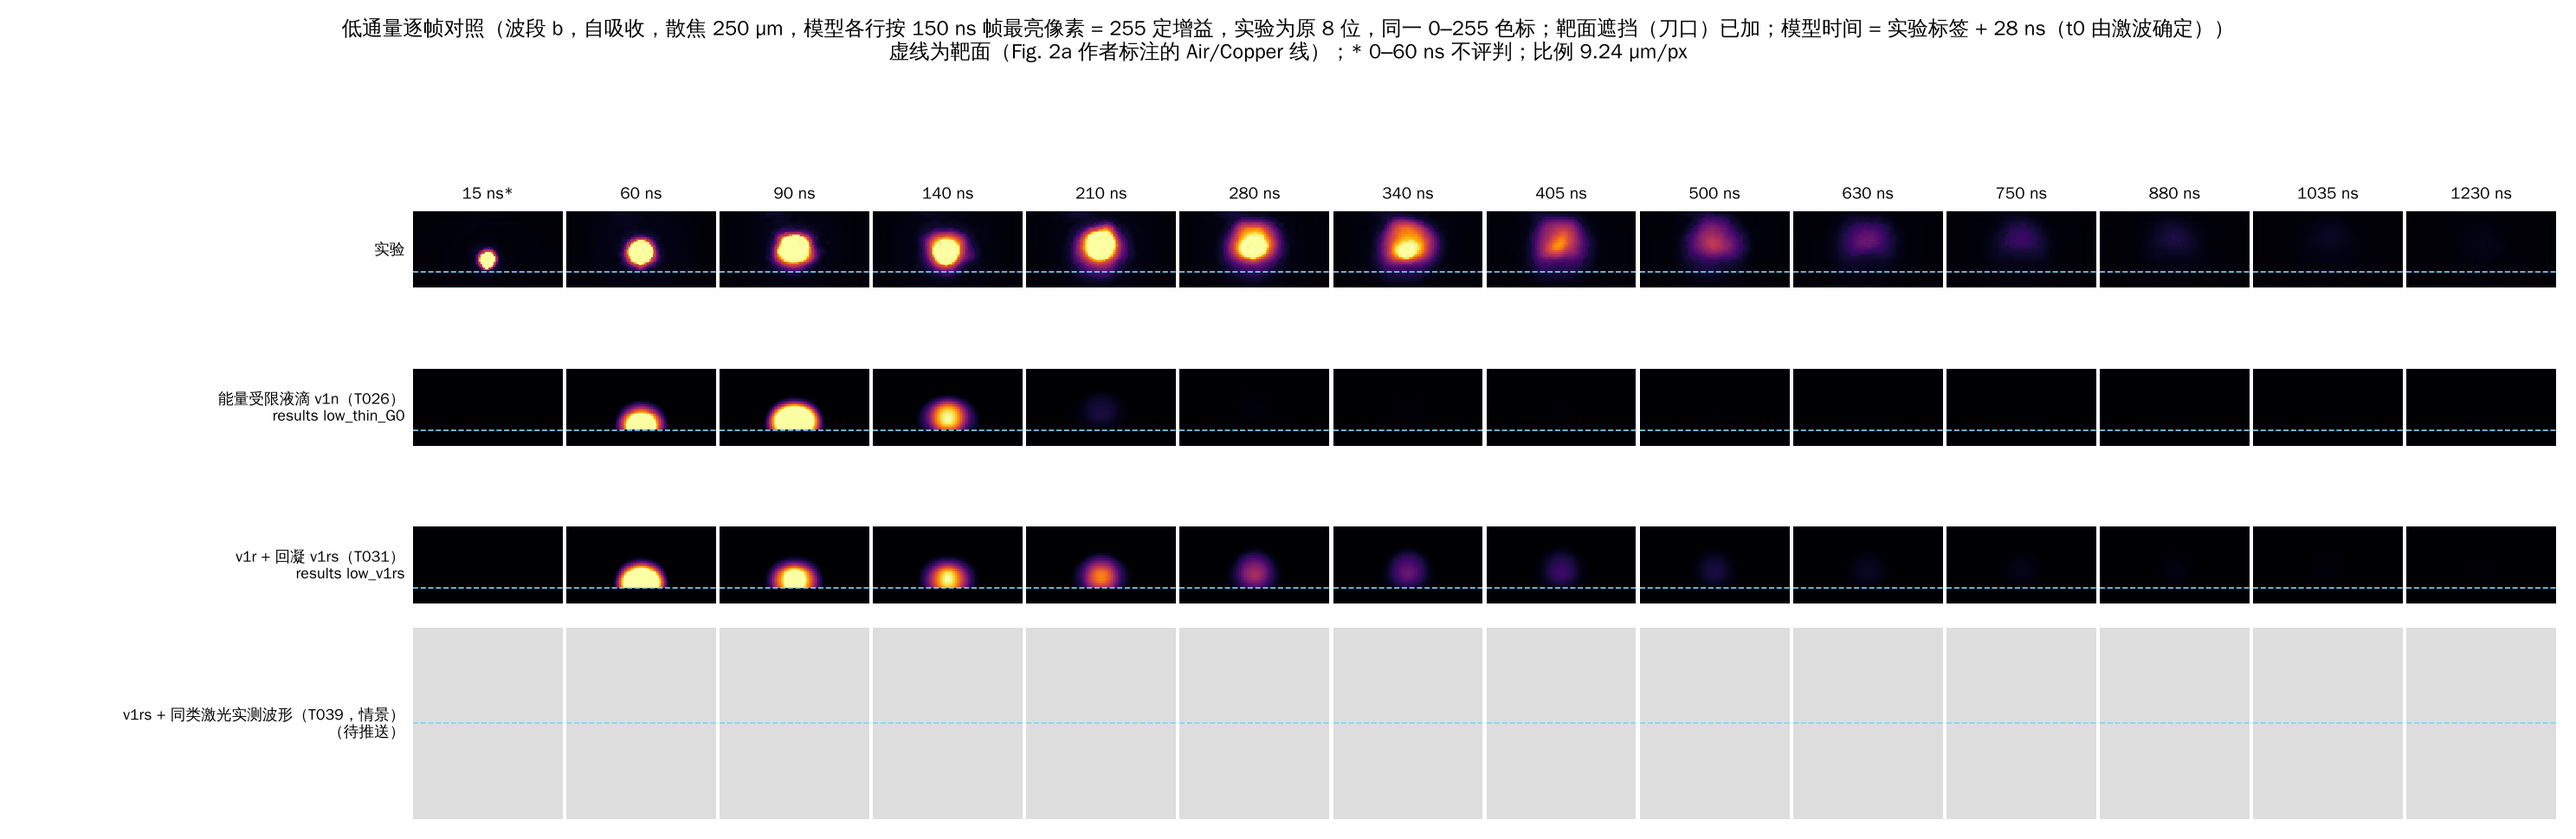
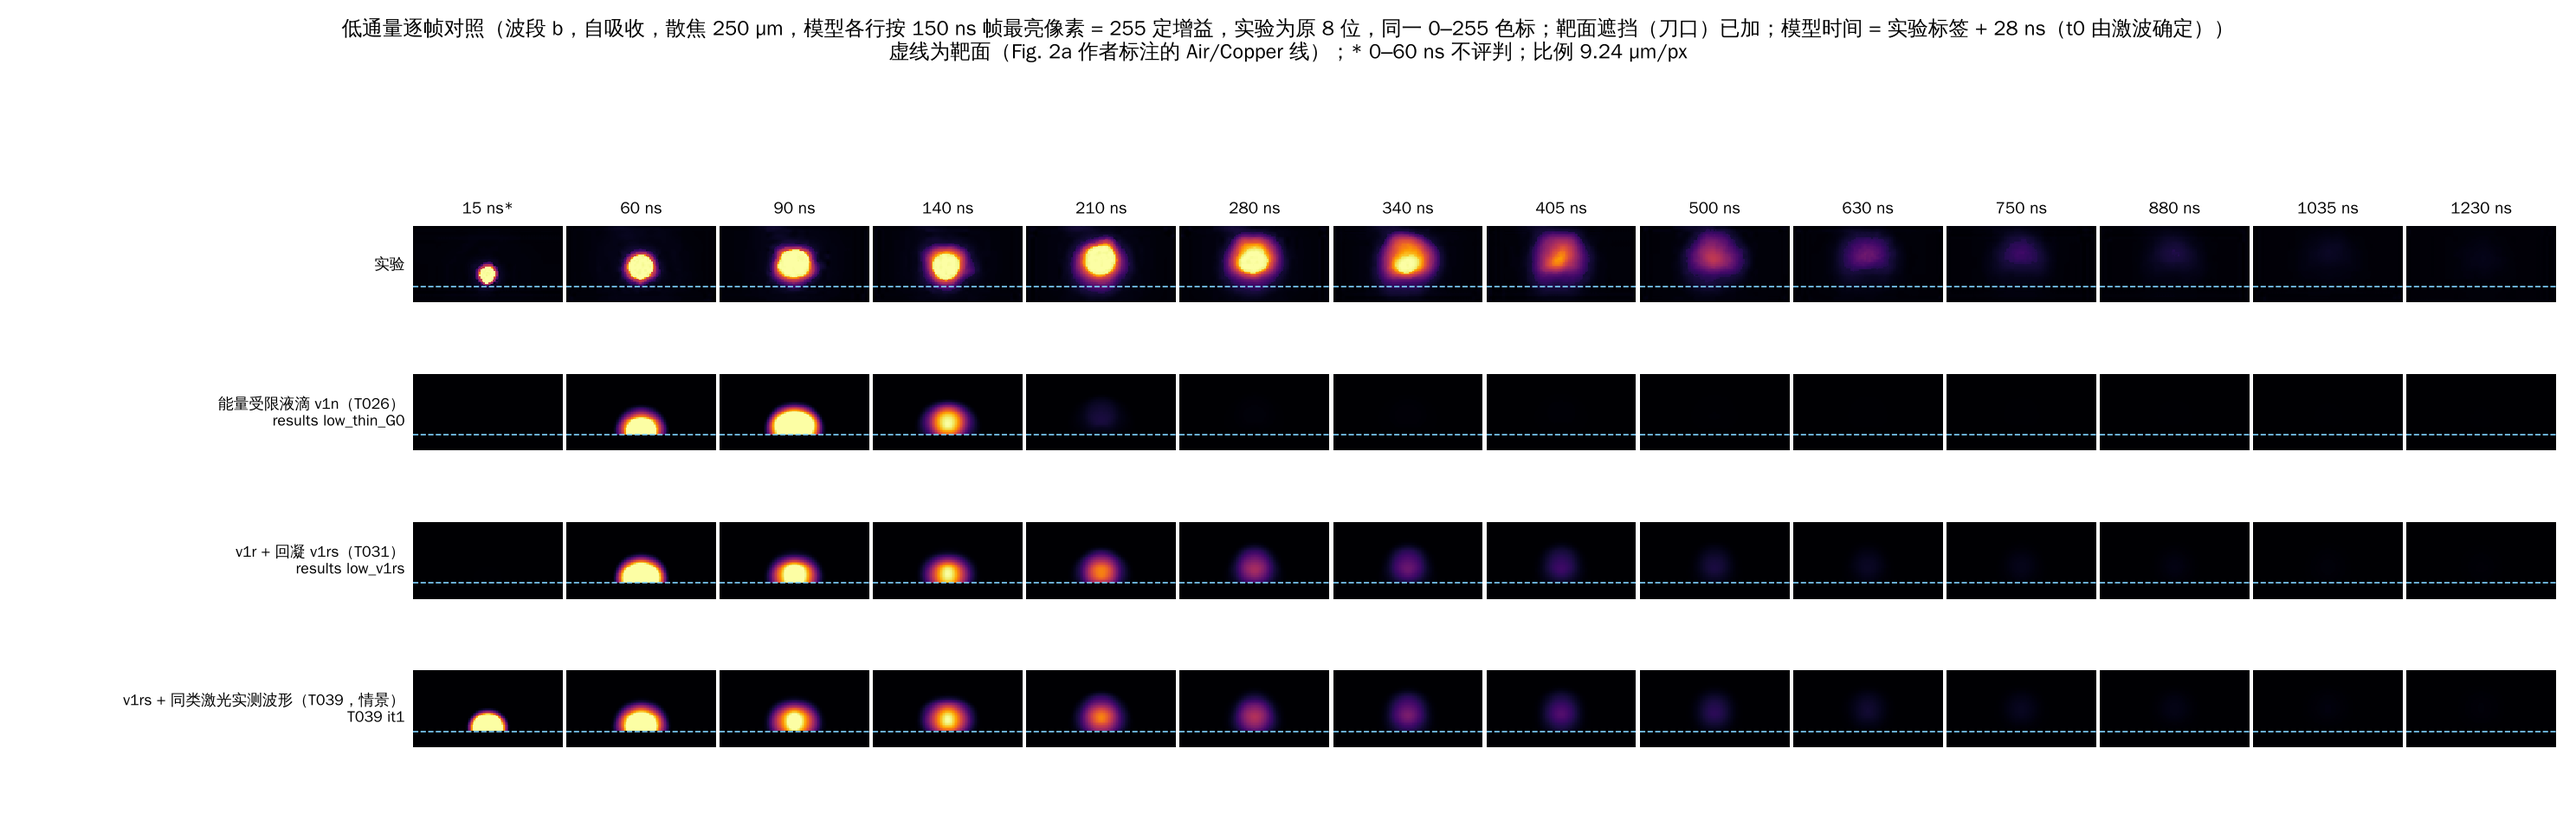
S4 defocus calibration: high-fluence frames/curves at declared 500 um; saturation note
Claude-Session: https://claude.ai/code/session_01FS7WDGPKzwdDyXZyPwrs24

diff --git a/scripts/plot_full_comparison.py b/scripts/plot_full_comparison.py
@@ -129,12 +129,21 @@ def occlude(img, srow):
 
 OCCLUDE = False
 GAIN_MODE = "tref"
+DEFOCUS = {"high": "baseline", "low": "baseline"}   # --defocus-high high: S4 instrument calibration (PREREG 2026-11-26)
+
+
+def _ser(path):
+    return "high" if "high" in str(path).replace("\\", "/").split("results/")[-1] else "low"
+
+
+def dfoc_of(path):
+    return P.get("defocus_um_scenarios")[DEFOCUS[_ser(path)]]
 
 
 def model_frames(path, mode, srow, L_ref):
     d = np.load(path / IMG / f"frames_b_{mode}.npz")
     um = float(d["um_per_px"])
-    dfoc = P.get("defocus_um_scenarios")["baseline"]
+    dfoc = dfoc_of(path)
     fr = {int(t): (occlude(camera.blur(place(x, srow), um, dfoc), srow) if OCCLUDE else camera.blur(place(x, srow), um, dfoc)) for t, x in zip(d["t_ns"], d["radiance"]) if np.isfinite(x).all()}
     if not fr:
         return {}, 0.0
@@ -181,11 +190,11 @@ def frames_figure(series, mode, srow):
             if c == 0:
                 a.set_ylabel(lab, fontsize=7.5, rotation=0, ha="right", va="center")
     src = "Fig. 2a 作者标注的 Air/Copper 线" if series == "low" else "由低通量标注线换算（仅供参考）"
-    fig.suptitle(f"{'高' if series == 'high' else '低'}通量逐帧对照（波段 b，{'自吸收' if mode == 'sa' else '光学薄'}，散焦 250 µm，"
+    fig.suptitle(f"{'高' if series == 'high' else '低'}通量逐帧对照（波段 b，{'自吸收' if mode == 'sa' else '光学薄'}，散焦 {P.get('defocus_um_scenarios')[DEFOCUS[series]]:g} µm，"
                  f"{'模型各行按自身最亮帧定增益（不饱和），实验为原 8 位' if GAIN_MODE == 'peak' else ('模型各行按 150 ns 帧最亮像素 = 255 定增益，实验为原 8 位' if GAIN_MODE == 'peak150' else '各行在 300 ns 单独定增益')}，同一 0–255 色标{'；靶面遮挡（刀口）已加' if OCCLUDE else ''}{'；模型时间 = 实验标签 + 28 ns（t0 由激波确定）' if IMG != 'image_v2' else ''}）\n虚线为靶面（{src}）；* 0–60 ns 不评判；比例 {um:.2f} µm/px",
                  fontsize=10)
     fig.tight_layout(rect=(0.04, 0, 1, 0.92), h_pad=0.3, w_pad=0.2)
-    out = ROOT / f"results/figures/full_frames_{series}{'_occluded' if OCCLUDE else ''}{'_unsat' if GAIN_MODE == 'peak' else ''}{'_g150' if GAIN_MODE == 'peak150' else ''}{'_' + IMG.split('_')[-1] if IMG != 'image_v2' else ''}.png"
+    out = ROOT / f"results/figures/full_frames_{series}{'_occluded' if OCCLUDE else ''}{'_unsat' if GAIN_MODE == 'peak' else ''}{'_g150' if GAIN_MODE == 'peak150' else ''}{'_' + IMG.split('_')[-1] if IMG != 'image_v2' else ''}{'_d' + str(int(P.get('defocus_um_scenarios')[DEFOCUS[series]])) if DEFOCUS[series] != 'baseline' else ''}.png"
     fig.savefig(out, dpi=170)
     plt.close(fig)
     return out
@@ -236,7 +245,7 @@ def geometry_figure(series, mode, srow):
 def lift_curve(path, mode):
     d = np.load(path / IMG / f"frames_b_{mode}.npz")
     um = float(d["um_per_px"])
-    dfoc = P.get("defocus_um_scenarios")["baseline"]
+    dfoc = dfoc_of(path)
     t_, l_ = [], []
     for t, x in zip(d["t_ns"], d["radiance"]):
         if np.isfinite(x).all() and x.max() > 0:
@@ -259,7 +268,7 @@ def curves_figure(mode, srows):
             if p is None:
                 continue
             for md, ls in ((mode, "-"), ("thin" if mode == "sa" else "sa", ":")):
-                f = p / IMG / f"metrics_b_{md}_baseline.csv"
+                f = p / IMG / f"metrics_b_{md}_{DEFOCUS[series]}.csv"
                 if f.exists():
                     m = pd.read_csv(f)
                     a.semilogy(m.t_ns, m.L_radiance / np.interp(T_REF, m.t_ns, m.L_radiance), ls, color=COL[key], lw=1.8 if ls == "-" else 1.1,
@@ -292,7 +301,7 @@ def curves_figure(mode, srows):
         for key, p in MEMBERS[series].items():
             if p is None:
                 continue
-            f = p / IMG / f"metrics_b_{mode}_baseline.csv"
+            f = p / IMG / f"metrics_b_{mode}_{DEFOCUS[series]}.csv"
             if f.exists():
                 m = pd.read_csv(f)
                 a.plot(m.t_ns, np.sqrt(m.sigma_x2_um2), "-", color=COL[key], lw=1.8, label=f"{LAB[key]} σx")
@@ -302,7 +311,7 @@ def curves_figure(mode, srows):
         a.legend(frameon=False, fontsize=6.5, ncol=2)
     fig.suptitle(f"全过程仿真与实验对照：亮度衰减、发光峰高度、发光区尺寸（波段 b，{'自吸收' if mode == 'sa' else '光学薄'}；实线为主模式）", fontsize=11)
     fig.tight_layout(rect=(0, 0, 1, 0.96))
-    out = ROOT / f"results/figures/full_curves{'_' + IMG.split('_')[-1] if IMG != 'image_v2' else ''}.png"
+    out = ROOT / f"results/figures/full_curves{'_' + IMG.split('_')[-1] if IMG != 'image_v2' else ''}{'_dhigh' if DEFOCUS['high'] != 'baseline' else ''}.png"
     fig.savefig(out, dpi=160)
     plt.close(fig)
     return out
@@ -341,10 +350,12 @@ def main(argv=None):
     ap.add_argument("--mode", default="sa", choices=["sa", "thin"])
     ap.add_argument("--gain", default="tref", choices=["tref", "peak", "peak150"], help="display option: gain at t_ref (default) or no-saturation gain per row")
     ap.add_argument("--occlude", action="store_true", help="display option: knife-edge occlusion of the image below the face")
+    ap.add_argument("--defocus-high", default="baseline", choices=["baseline", "high", "low"], help="defocus scenario for the high series")
     ap.add_argument("--image-dir", default="image_v2", help="imaging subfolder, e.g. image_v2_t28 (t0-aligned)")
     a = ap.parse_args(argv)
     global OCCLUDE, GAIN_MODE, IMG, MEMBERS
     IMG = a.image_dir
+    DEFOCUS["high"] = a.defocus_high
     if IMG != "image_v2":
         MEMBERS = members()
     OCCLUDE = a.occlude

diff --git a/docs/PREREG_v0.md b/docs/PREREG_v0.md
@@ -258,3 +258,10 @@ As specified, the extension injects up to 21× the choked Knight-layer flux ρ_v
   - the shock against Fig. 3d (Δ = 28 ns, and Δ refitted for this scenario reported separately);
   - σx, σz/σx and the L(t)/L(150) trend.
 - **Expected:** ignition about 10 ns earlier. The low-fluence coupling deficit (about 3×) is not expected to close fully.
+
+## S4 defocus calibration (high fluence), recorded 2026-11-26 ~10:30 (UTC+8)
+- **What:** the imaging defocus D is an instrument property, not a model parameter. It is fixed from the earliest high-fluence frames (0 / 20 / 30 ns, σx = 108 / 113 / 117 µm), where the emitting region is far smaller than the blur disc and the frame is PSF-dominated.
+- **Method:** re-blur the unblurred model frames for D = 250…600 µm and match σx of those three frames only. Result: D ≈ 475–500 µm for both T031 (v1rs, Δ = 28 ns) and T039 (waveform). That equals the declared `high` scenario (500 µm), so the declared value is used; no new value is introduced.
+- **Low fluence:** its 10 ns frame (σ = 33 µm) is consistent with the declared `low` scenario (0 µm). The two series use different settings, consistent with the two series being recorded separately.
+- **Transparency:** the d500 images and later-time metrics of T031/T039 had already been computed as part of the declared scenario bracket before this calibration. The calibration uses only the three earliest frames, and the later-time agreement is not used to choose D.
+- **Experimental saturation:** high-fluence frames at 50–160 ns are saturated (n_sat 17–139, peak 255); 180 ns onward is unsaturated. The experimental L at 50–160 ns is therefore a lower bound, and brightness-trend comparisons are normalised at 300 ns (L(t)/L(300)), not at 150 ns.

diff --git a/docs/DECISIONS.md b/docs/DECISIONS.md
@@ -110,3 +110,5 @@ PREREG v1p (b), matched high it0 against T026 it0: σ_z/σ_x at 300 ns moves by 
 ## 2026-11-26 10:50 — Focus: high fluence (user)
 - User: the targets are the high-fluence brightness trend and the plume size; low fluence is reference only. Low-fluence work (T038) finishes but gets no new cards. New physics is judged on the high-fluence metrics: L(t)/L(150) against the experiment, and σx, σz, zc against the experiment.
 - First step is a diagnostic, T041: the cloud smoke run puts 99.8% of the laser absorption in the Cu vapour within 4–8 µm of the face, while the experiment's luminous centroid is about 200 µm up at 50 ns. Hypothesis: the model lacks an absorption front that climbs the beam (laser-supported absorption in shock-heated air or in the expanding plume). The production-grid deposition profile decides it.
+
+- 2026-11-26 ~10:30 — High-fluence comparisons use the declared defocus scenario `high` (500 µm), selected by the instrument-only calibration on the 0–30 ns frames (PREREG_v0 "S4 defocus calibration"). Brightness trends at high fluence are normalised at 300 ns because the 50–160 ns experimental frames are saturated. (Claude, under full authority.)
